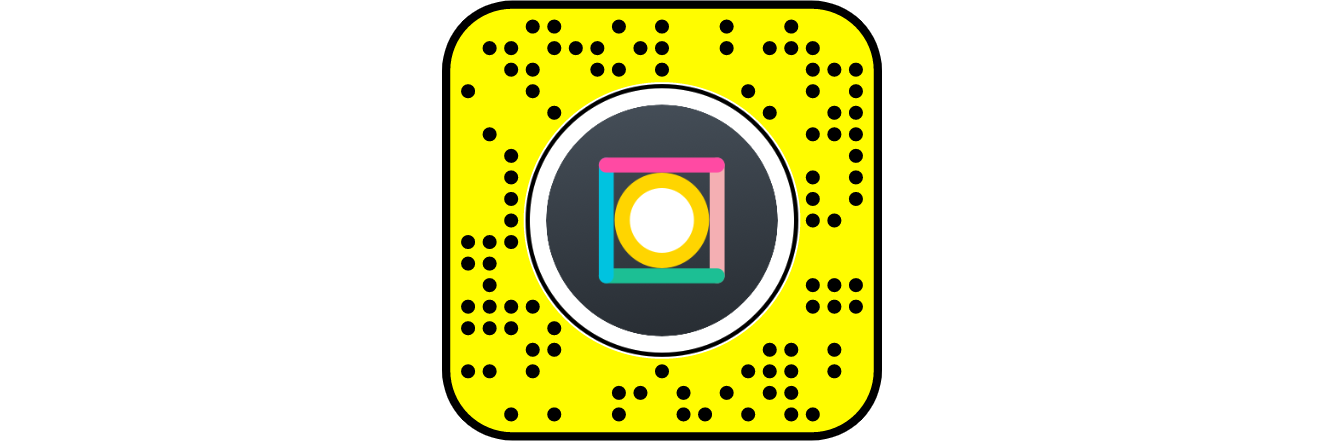
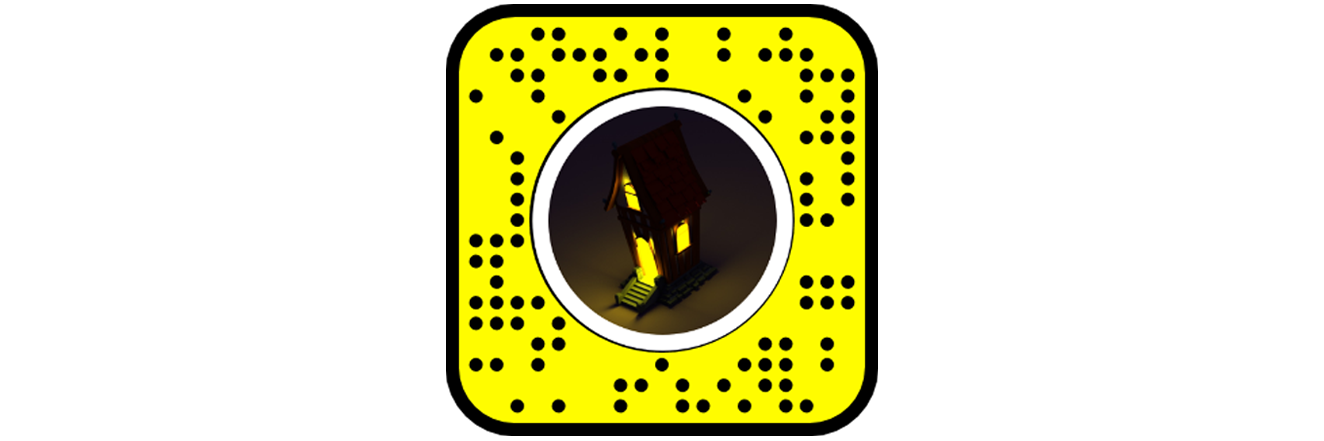
mystery shack online

Changed region(s): [[0.3097, 0.0, 0.6813, 1.0]]

diff --git a/mystery-shack.html b/mystery-shack.html
@@ -1,0 +1,65 @@
+---
+layout: default
+
+---
+
+<div class="grid">
+  <div class="unit xs-1 s-1 m-1 l-1 xl-1">
+    <div class="embed embed-3by2 banner-height">
+      <img class="img-flex embed-item" src="/images/mystery-shack/shack-cover.png" alt="banner for frontier trails ">
+    </div>
+  </div>
+  <div class="unit xs-1 s-1 m-1 l-1 xl-1 page mega text-center pad-t pad-b island-2 gutter-2 push-none bg-fronter">
+
+    <p class="island gutter-2 push-none">Used Blender to restore the  MYSTERY SHACK in the cartoon "Gravity Falls". This is an interesting modeling exercise. and I have learned many things. If I have a chance, I must try the normal map and the uv map next time, so I don’t have to Waste 80% of memory on the preview.</p>
+  </div>
+
+  <div class="unit xs-1 s-1 m-1 l-1 xl-1 pad-b-2">
+    <div class="center-block center-content unit-centered">
+      <iframe class="video-box" src="https://player.vimeo.com/video/444766824" frameborder="0" allow="autoplay; fullscreen" allowfullscreen></iframe>
+    </div>
+  </div>
+
+  <div class="unit xs-1 s-1 m-1-2 l-1-2 xl-1-2">
+    <div class="embed embed-3by2 banner-height">
+      <img class="img-flex embed-item" src="/images/mystery-shack/1.png" alt="banner for frontier trails ">
+    </div>
+  </div>
+
+  <div class="unit xs-1 s-1 m-1-2 l-1-2 xl-1-2">
+    <div class="embed embed-3by2 banner-height">
+      <img class="img-flex embed-item" src="/images/mystery-shack/2.png" alt="banner for frontier trails ">
+    </div>
+  </div>
+
+  <div class="unit xs-1 s-1 m-1-2 l-1-2 xl-1-2">
+    <div class="embed embed-3by2 banner-height">
+      <img class="img-flex embed-item" src="/images/mystery-shack/3.png" alt="banner for frontier trails ">
+    </div>
+  </div>
+
+  <div class="unit xs-1 s-1 m-1-2 l-1-2 xl-1-2">
+    <div class="embed embed-3by2 banner-height">
+      <img class="img-flex embed-item" src="/images/mystery-shack/4.png" alt="banner for frontier trails ">
+    </div>
+  </div>
+
+  <div class="unit xs-1 s-1 m-1-2 l-1-2 xl-1-2">
+    <div class="embed embed-3by2 banner-height">
+      <img class="img-flex embed-item" src="/images/mystery-shack/6.png" alt="banner for frontier trails ">
+    </div>
+  </div>
+
+  <div class="unit xs-1 s-1 m-1-2 l-1-2 xl-1-2">
+    <div class="embed embed-3by2 banner-height">
+      <img class="img-flex embed-item" src="/images/mystery-shack/5.png" alt="banner for frontier trails ">
+    </div>
+  </div>
+
+  {% pattern banner/banner-header %}
+
+  {% pattern showcase/showcase %}
+
+  {% pattern cursor/cursor %}
+
+</div>

diff --git a/graduation_phobia.html b/graduation_phobia.html
@@ -15,9 +15,9 @@ layout: default
     <p class="island gutter-2 push-none">This is a motion piece demonstrating the fear of overwhelming burdens after graduation. The challenge of the student debt, searching for meaningfull employment and finding work/life balance is daunting. There is also a fear of leaving my hobbies behind as I enter the workforce.</p>
   </div>
 
-  <div class="unit xs-1 s-1 m-1 l-1 xl-1 island gutter-2 pad-b">
-    <div class="embed embed-2by1 banner-height">
-      <img class="img-flex embed-item" src="/images\Man-Carry-Things.gif" alt="banner for frontier trails ">
+  <div class="unit xs-1 s-1 m-1 l-1 xl-1 pad-b-2">
+    <div class="center-block center-content unit-centered">
+      <iframe class="video-box" src="https://player.vimeo.com/video/444769066" frameborder="0" allow="autoplay; fullscreen" allowfullscreen></iframe>
     </div>
   </div>
 

diff --git a/ar-project.html b/ar-project.html
@@ -19,6 +19,12 @@ layout: default
       <p class="island gutter-2 push-none">I chose Lens Studio as the platform for getting started with AR. Lens Studio is Snapchat's production and upload software. Learning from the tutorial on YouTube, making a Lens and uploading it to Snapchat is easier than I thought.</p>
   </div>
 
+  <div class="unit xs-1 s-1 m-1 l-1 xl-1 pad-b-2">
+    <div class="center-block center-content unit-centered">
+      <iframe class="video-box" src="https://player.vimeo.com/video/444630386" frameborder="0" allow="autoplay; fullscreen" allowfullscreen></iframe>
+    </div>
+  </div>
+
   <div class="unit xs-1 s-1 m-1-2 l-1-2 xl-1-2">
     <div class="embed embed-3by2 banner-height">
       <img class="img-flex embed-item" src="/images\house\1.jpg" alt="banner for frontier trails ">

diff --git a/_patterns/showcase/showcase.html b/_patterns/showcase/showcase.html
@@ -1,7 +1,7 @@
 <section class="grid push-0" id="art">
 
   <div id="dineen-coffee" tabindex="0" class="unit xs-1 s-1-2 m-1-2 l-1-3">
-    <a class="container text-center block relative" href="/404">
+    <a class="container text-center block relative" href="/mystery-shack">
       <img class="image img-flex" src="/images/mystery-shack/mystery-shack.gif" alt="card images">
       <div class=" gutter-2 text absolute pin-c">
         <h3 class="text-color push-0 showcase-header">3D MYSTERY SHACK</h3>

diff --git a/_patterns/404/404.html b/_patterns/404/404.html
@@ -2,8 +2,8 @@
 <div class="tuna"></div>
 
 <p class="tena text-center push-0">404</p>
-<p class="push-0 text-center">This ain't no place for no hero</p>
-<p class="text-center">To call "home"</p>
+<p class="push-0 text-center">This Ain't No Place For No Hero</p>
+<p class="text-center">To Call "HOME"</p>
 <div class="po">
 {% pattern buttons/style1 %}
 </div>
